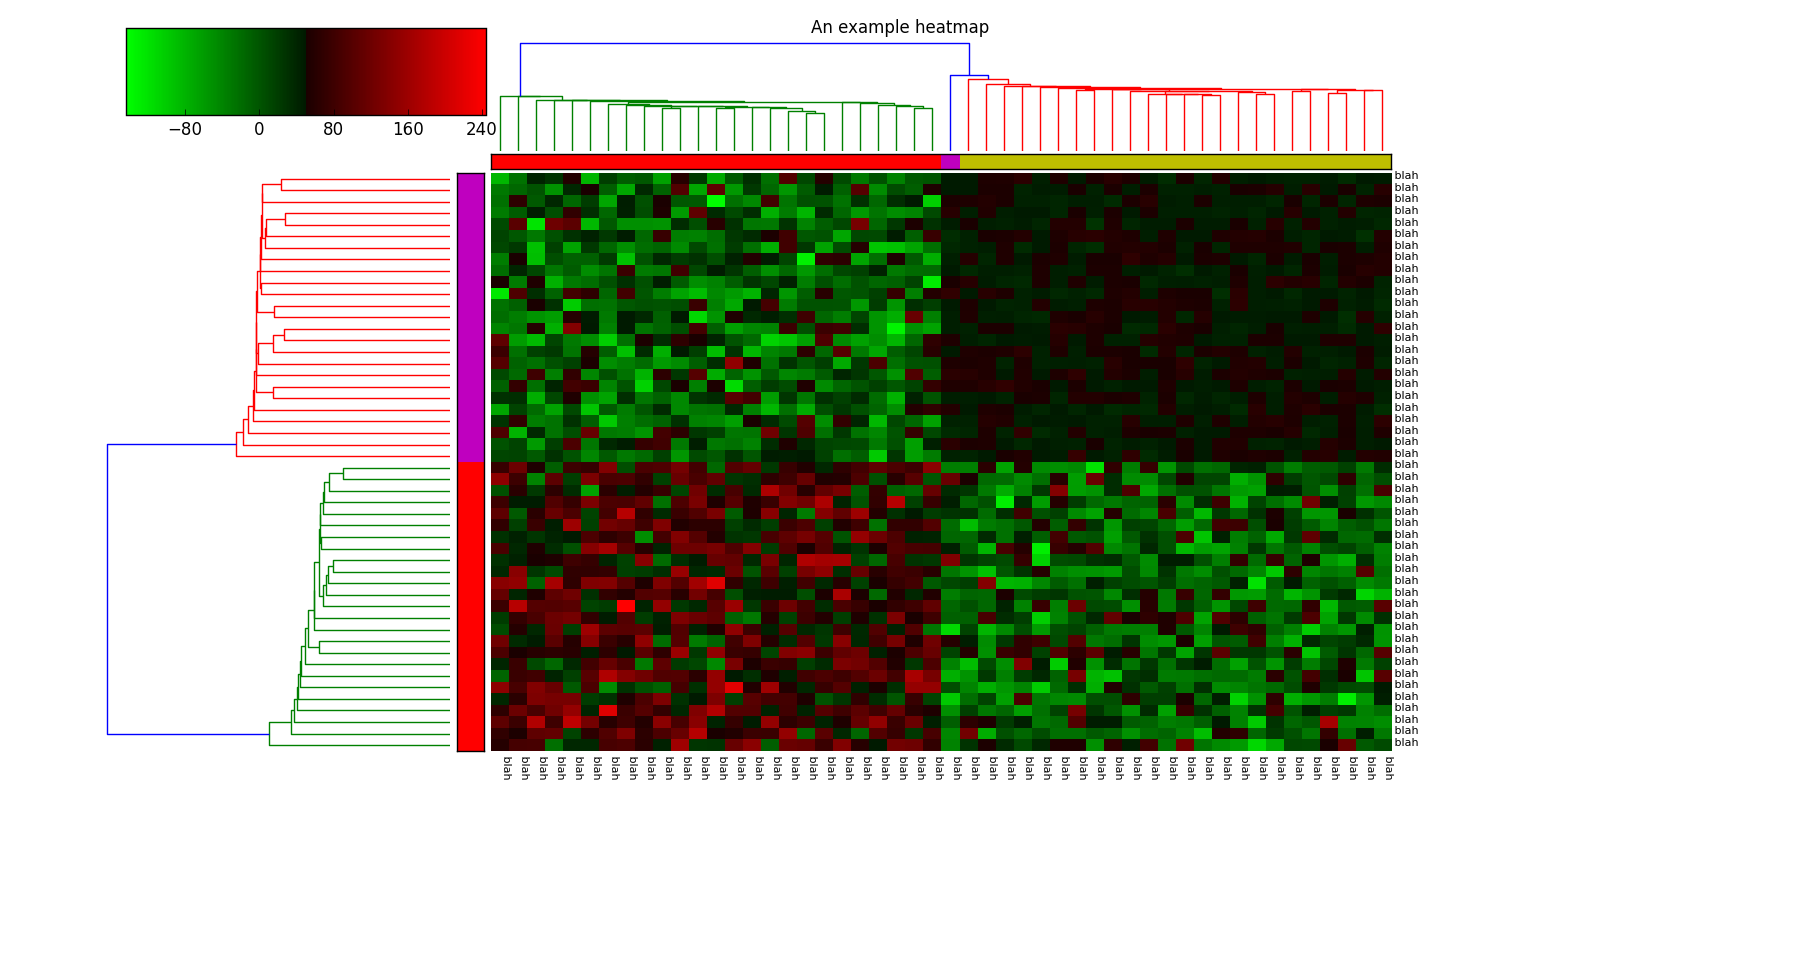
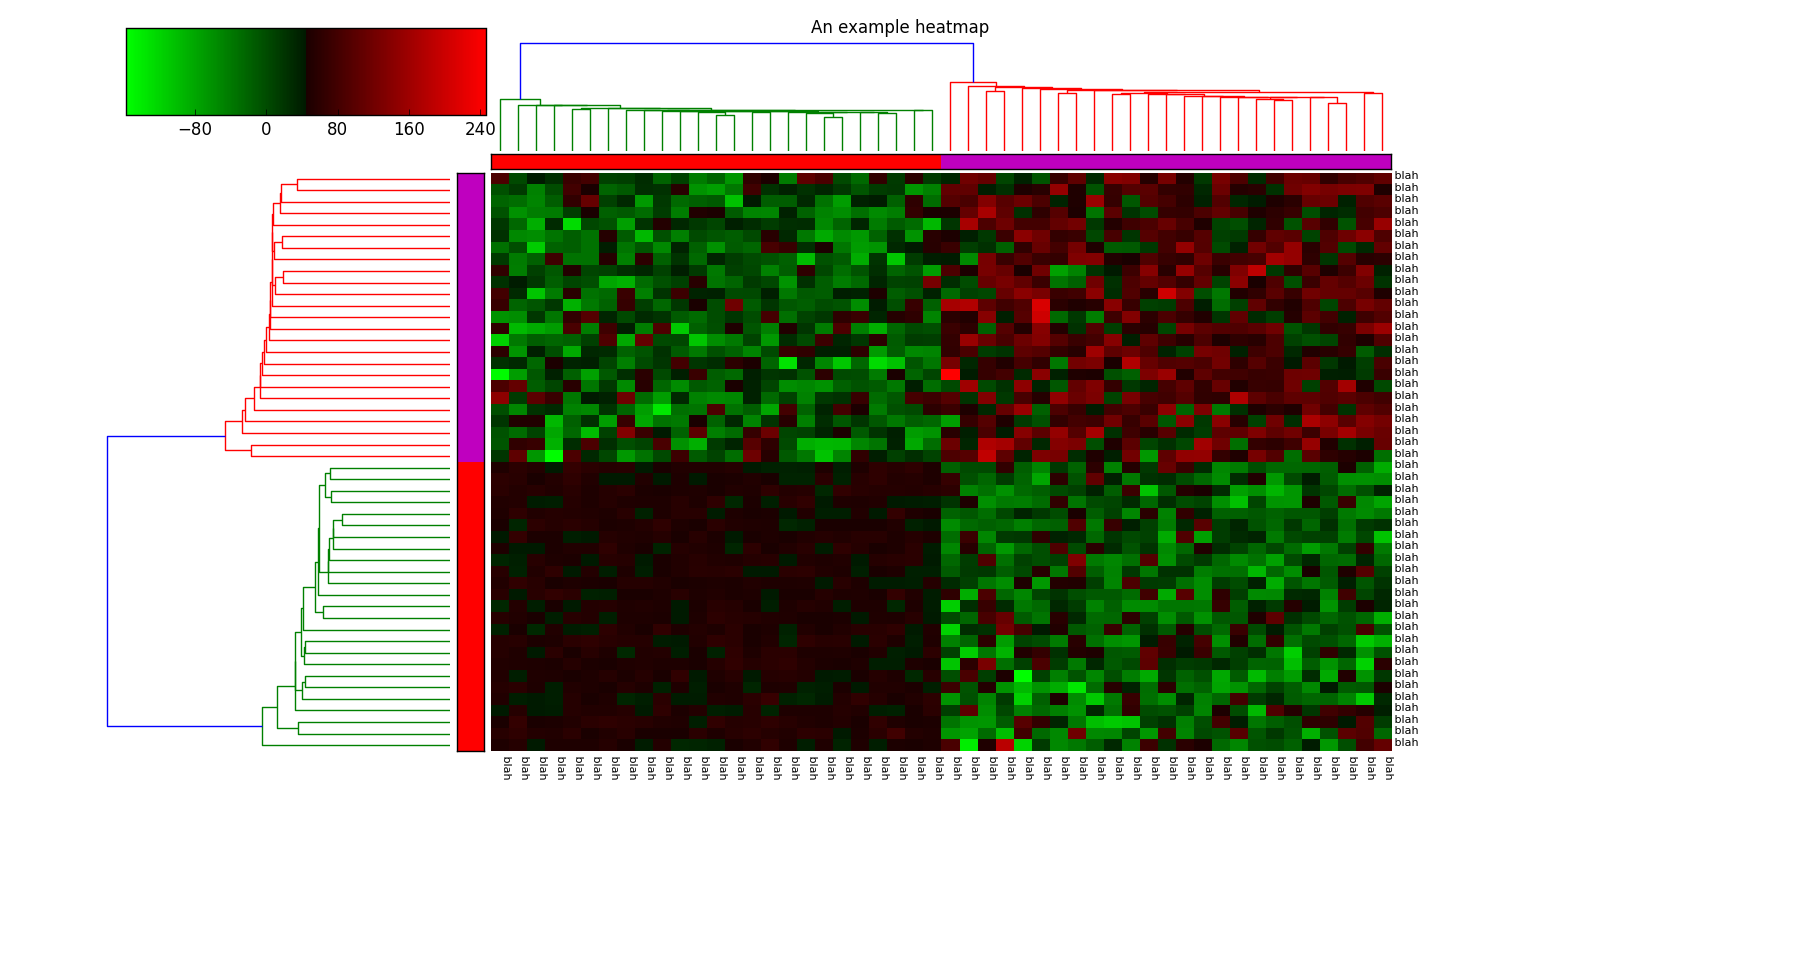
updated the setup, updated example image

diff --git a/pydendroheatmap/example.py b/pydendroheatmap/example.py
@@ -21,16 +21,23 @@ def run():
     #cluster the rows
     row_dist = ssd.squareform(ssd.pdist(data))
     row_Z = sch.linkage(row_dist)
+    row_idxing = sch.leaves_list(row_Z)
 
     row_labels = 50 * ['blah']
 
     #cluster the columns
     col_dist = ssd.squareform(ssd.pdist(data.T))
     col_Z = sch.linkage(col_dist)
+    col_idxing = sch.leaves_list(col_Z)
     #make the dendrogram
+
+    col_labels = 50 * ['blah']
+
+    data = data[:,col_idxing][row_idxing,:]
 
     heatmap = pdh.DendroHeatMap(heat_map_data=data, left_dendrogram=row_Z, top_dendrogram=col_Z)
     heatmap.row_labels = row_labels
+    heatmap.col_labels = col_labels
     heatmap.title = 'An example heatmap'
     heatmap.show()
     """
@@ -42,15 +49,19 @@ def run():
     #cluster the rows
     row_dist = ssd.squareform(ssd.pdist(data))
     row_Z = sch.linkage(row_dist)
+    row_idxing = sch.leaves_list(row_Z)
 
     row_labels = 50 * ['blah']
 
     #cluster the columns
     col_dist = ssd.squareform(ssd.pdist(data.T))
     col_Z = sch.linkage(col_dist)
+    col_idxing = sch.leaves_list(col_Z)
     #make the dendrogram
 
     col_labels = 50 * ['blah']
+
+    data = data[:,col_idxing][row_idxing,:]
 
     heatmap = pdh.DendroHeatMap(heat_map_data=data, left_dendrogram=row_Z, top_dendrogram=col_Z)
     heatmap.row_labels = row_labels

diff --git a/setup.py b/setup.py
@@ -7,7 +7,7 @@ def readme():
     return text
 
 setup(name='pydendroheatmap',
-      version='1.0',
+      version='1.0.1',
       description='Tool for creating heatmaps, where rows and columns are organized by hierarchical clusters'
                   'as seen in http://code.activestate.com/recipes/578175-hierarchical-clustering-heatmap-python/',
       url='https://github.com/themantalope/pydendroheatmap',
@@ -17,7 +17,6 @@ setup(name='pydendroheatmap',
       packages=['pydendroheatmap'],
       setup_requires=['numpy'],
       install_requires = [
-          'numpy',
           'scipy',
           'matplotlib',
 
